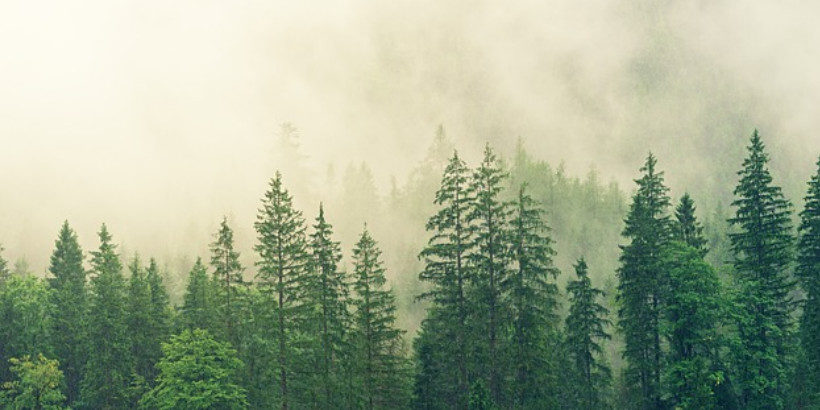
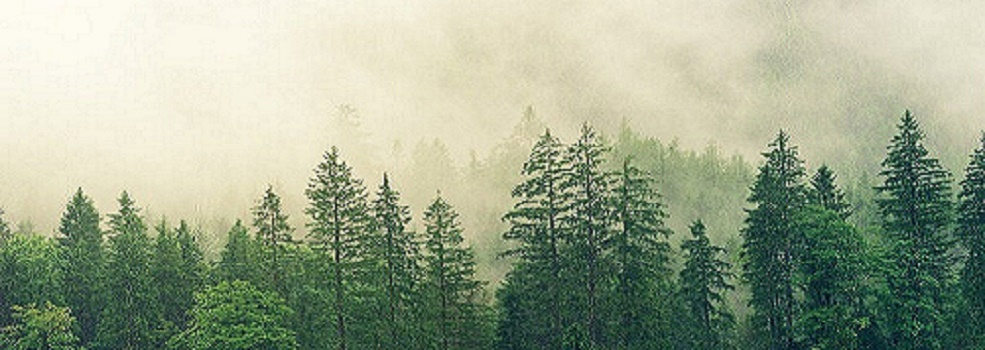
new code

diff --git a/lesson-9/index.html b/lesson-9/index.html
@@ -8,7 +8,7 @@
         href="https://fonts.googleapis.com/icon?family=Material+Icons"
         rel="stylesheet"
       />
-      <link rel="shortcut icon" href="../lesson-8/images/favicon.ico" />
+      <link rel="shortcut icon" href="../lesson-9/images/favicon.ico" />
       <link rel="stylesheet" href="../css/normalize.css" />
       <link rel="stylesheet" href="../lesson-9/css/small.css" />
       <link rel="stylesheet" href="../lesson-9/css/medium.css" />
@@ -38,7 +38,7 @@
       <div id="friday"></div>
       <img src="..//lesson5/images/logo-site.png" alt="logo of the site" />
       <h1>skyweather</h1>
-      <h2>knowing the weather for a better living</h2>
+      <h2><i>knowing the weather for a better living</i></h2>
       <nav class="clearfix">
         <button onclick="toggleMenu()">&#9776;</button>
         <ul id="primaryNav" class="hide">
@@ -54,6 +54,11 @@
       </nav>
     </header>
     <main>
+      <picture>
+        <source media="(max-width: 200px)" srcset="../lesson-9/images/forestbanner800.jpg">
+        <source media="(max-width: 500px)" srcset="../lesson-9/images/forestbanner500.jpg">
+        <img src="../lesson-9/images/forestbanner.jpg" alt="a very beatiful forest">
+      </picture>
       <div class="towns"></div>
       <h1 class="notice">New atractions are on the way!</h1>
     </main>

diff --git a/lesson-9/js/towns.js b/lesson-9/js/towns.js
@@ -25,21 +25,21 @@ fetch(townsRequestURL)
 
         let townjson = document.createElement("section");
         let h1 = document.createElement("h1");
-        let h2 = document.createElement("h2");
+        let h3 = document.createElement("h3");
         let img = document.createElement("img");
         let yearf = document.createElement("p");
         let population = document.createElement("p");
         let annualRain = document.createElement("p");
 
         h1.textContent = `${town[count].name}`;
-        h2.textContent = `${town[count].motto} `;
+        h3.textContent = `${town[count].motto} `;
         yearf.textContent = `Year Founded: ${town[count].yearFounded}`;
         population.textContent = `Current Population: ${town[count].currentPopulation}`;
         annualRain.textContent = `Annual Rain Fall: ${town[count].averageRainfall}`;
         img.setAttribute("src", imgTown);
         img.setAttribute("alt", `${town[count].name} `);
         townjson.appendChild(h1);
-        townjson.appendChild(h2);
+        townjson.appendChild(h3);
         townjson.appendChild(yearf);
         townjson.appendChild(population);
         townjson.appendChild(annualRain);

diff --git a/lesson-9/css/style6.css b/lesson-9/css/style6.css
@@ -80,6 +80,12 @@ footer ul {
   font-family: "Mukta", sans-serif;
 }
 
+main picture img {
+  border: yellowgreen solid 2px;
+  margin-top: 20px;
+  border-radius: 10px;
+}
+
 footer li {
   padding-bottom: 1em;
 }
@@ -170,4 +176,8 @@ figure img {
 .towns section {
   border-radius: 10px;
   color: black;
+}
+
+.towns h3 {
+  font-style: italic;
 }

diff --git a/lesson-9/css/small.css b/lesson-9/css/small.css
@@ -166,5 +166,16 @@
   .towns {
     display: grid;
     grid-template-columns: 1fr;
+    grid-gap: 10px;
+  }
+
+  .towns img {
+    border-radius: 10px;
+  }
+
+  .towns section {
+    background-color: yellowgreen;
+    color: black;
+    text-align: center;
   }
 }
